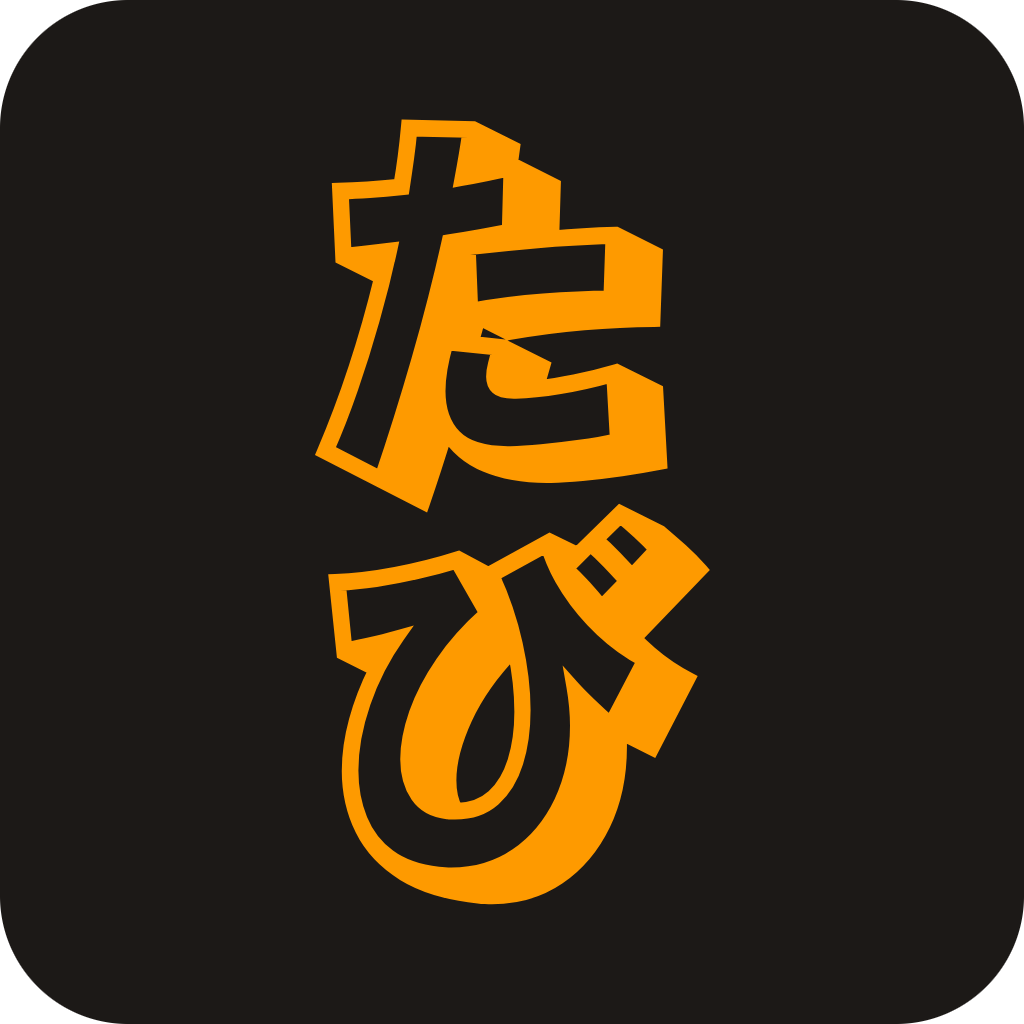
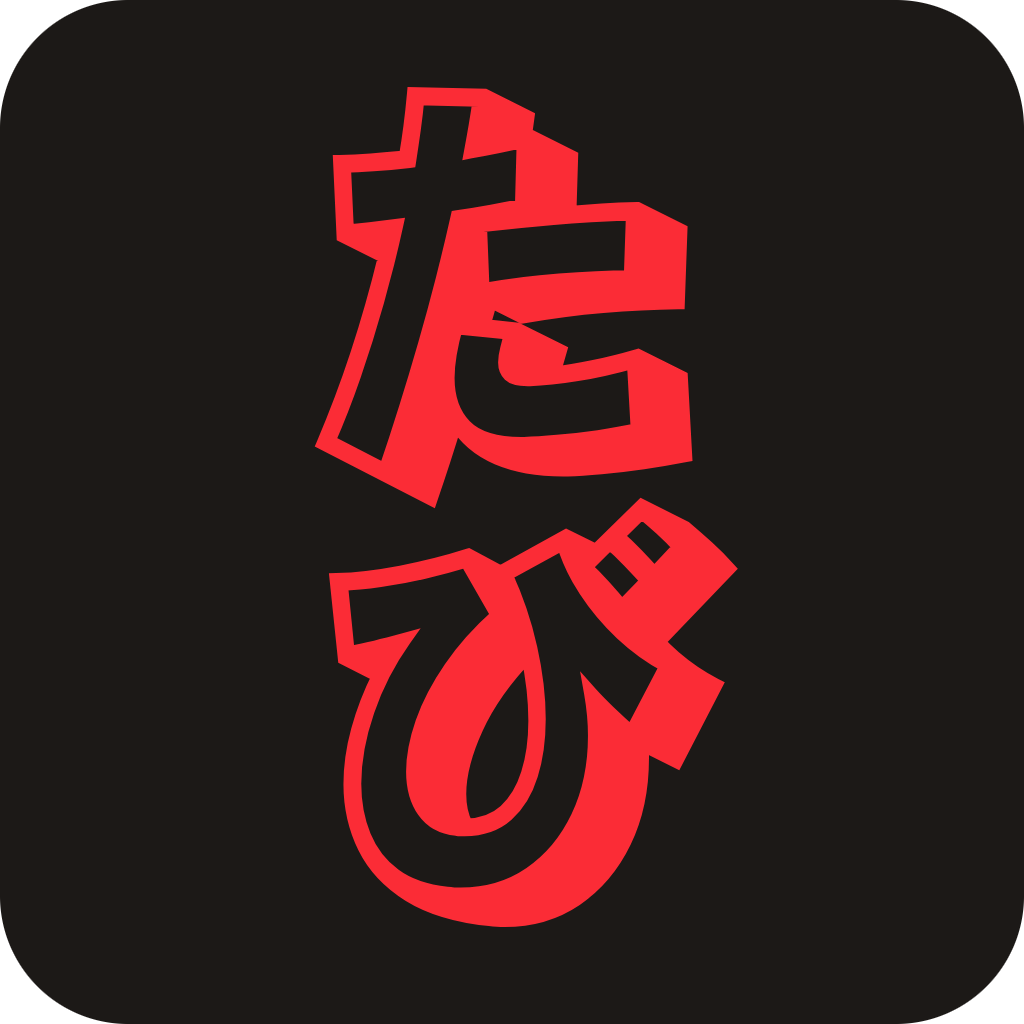
chore: change brand color to red

Changed region(s): [[0.3125, 0.0625, 0.7188, 0.9062]]

diff --git a/src/app/globals.css b/src/app/globals.css
@@ -4,7 +4,7 @@
   --font-sans: var(--font-outfit);
   --font-mono: var(--font-fira-code);
   --font-kana: var(--font-kana);
-  --color-tabi: var(--color-amber-500);
+  --color-tabi: var(--color-red-500);
   --drop-shadow-tabi: 4px 4px 0px var(--color-stone-700);
 }
 
